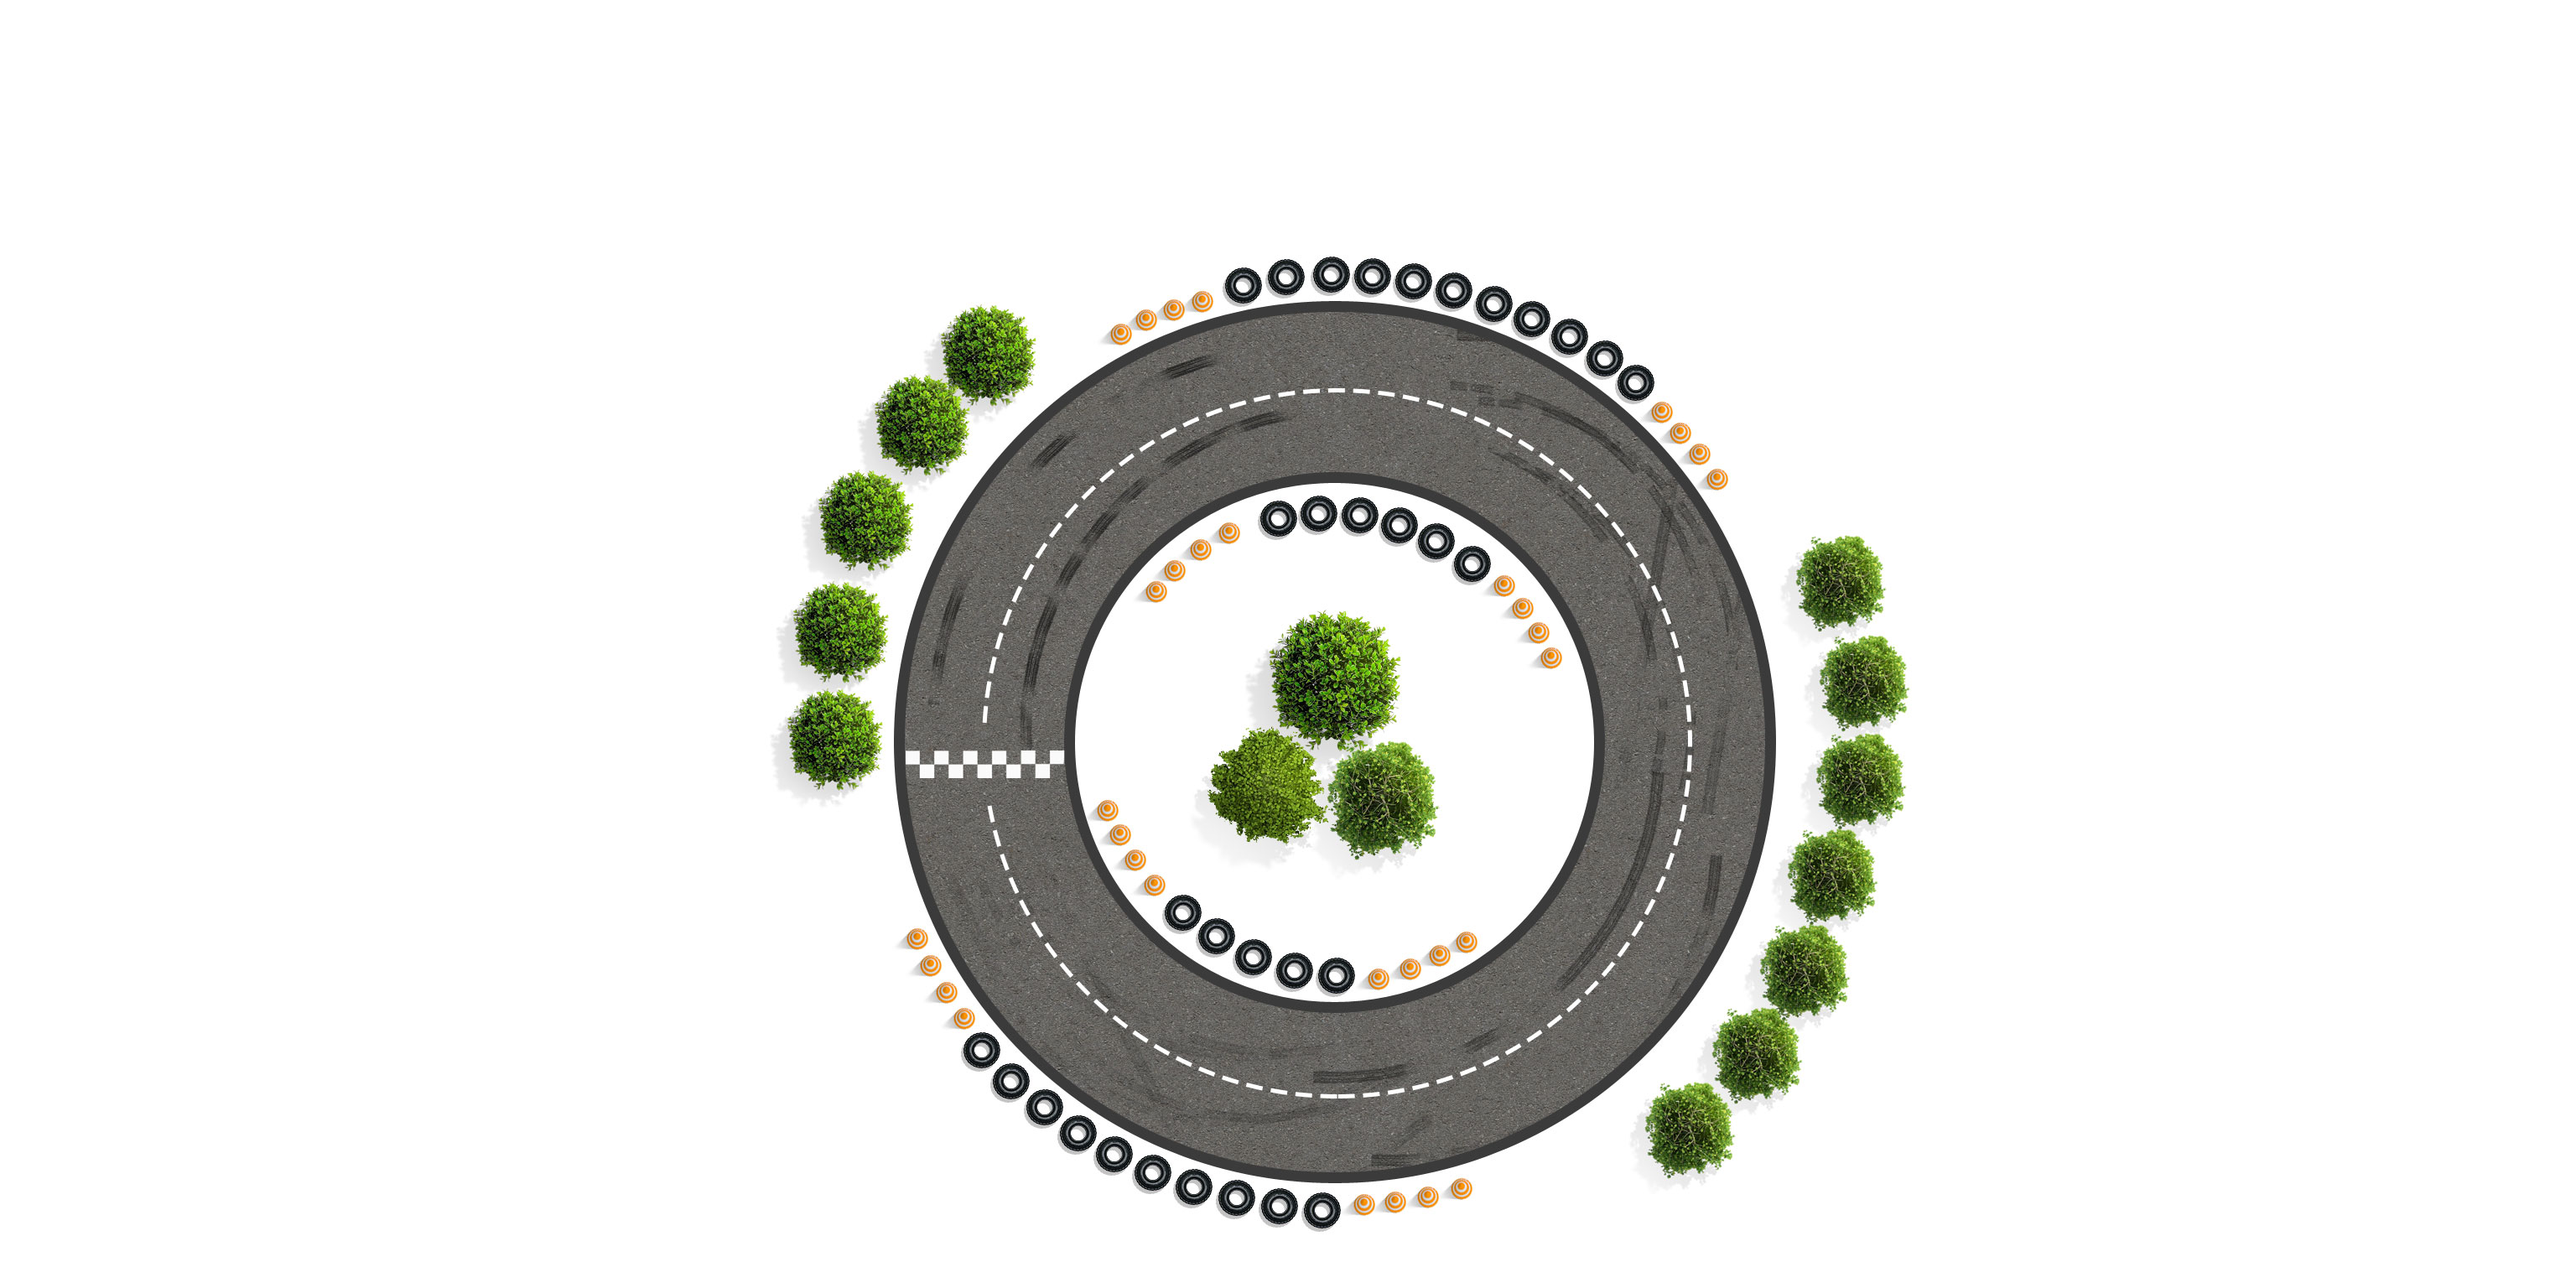
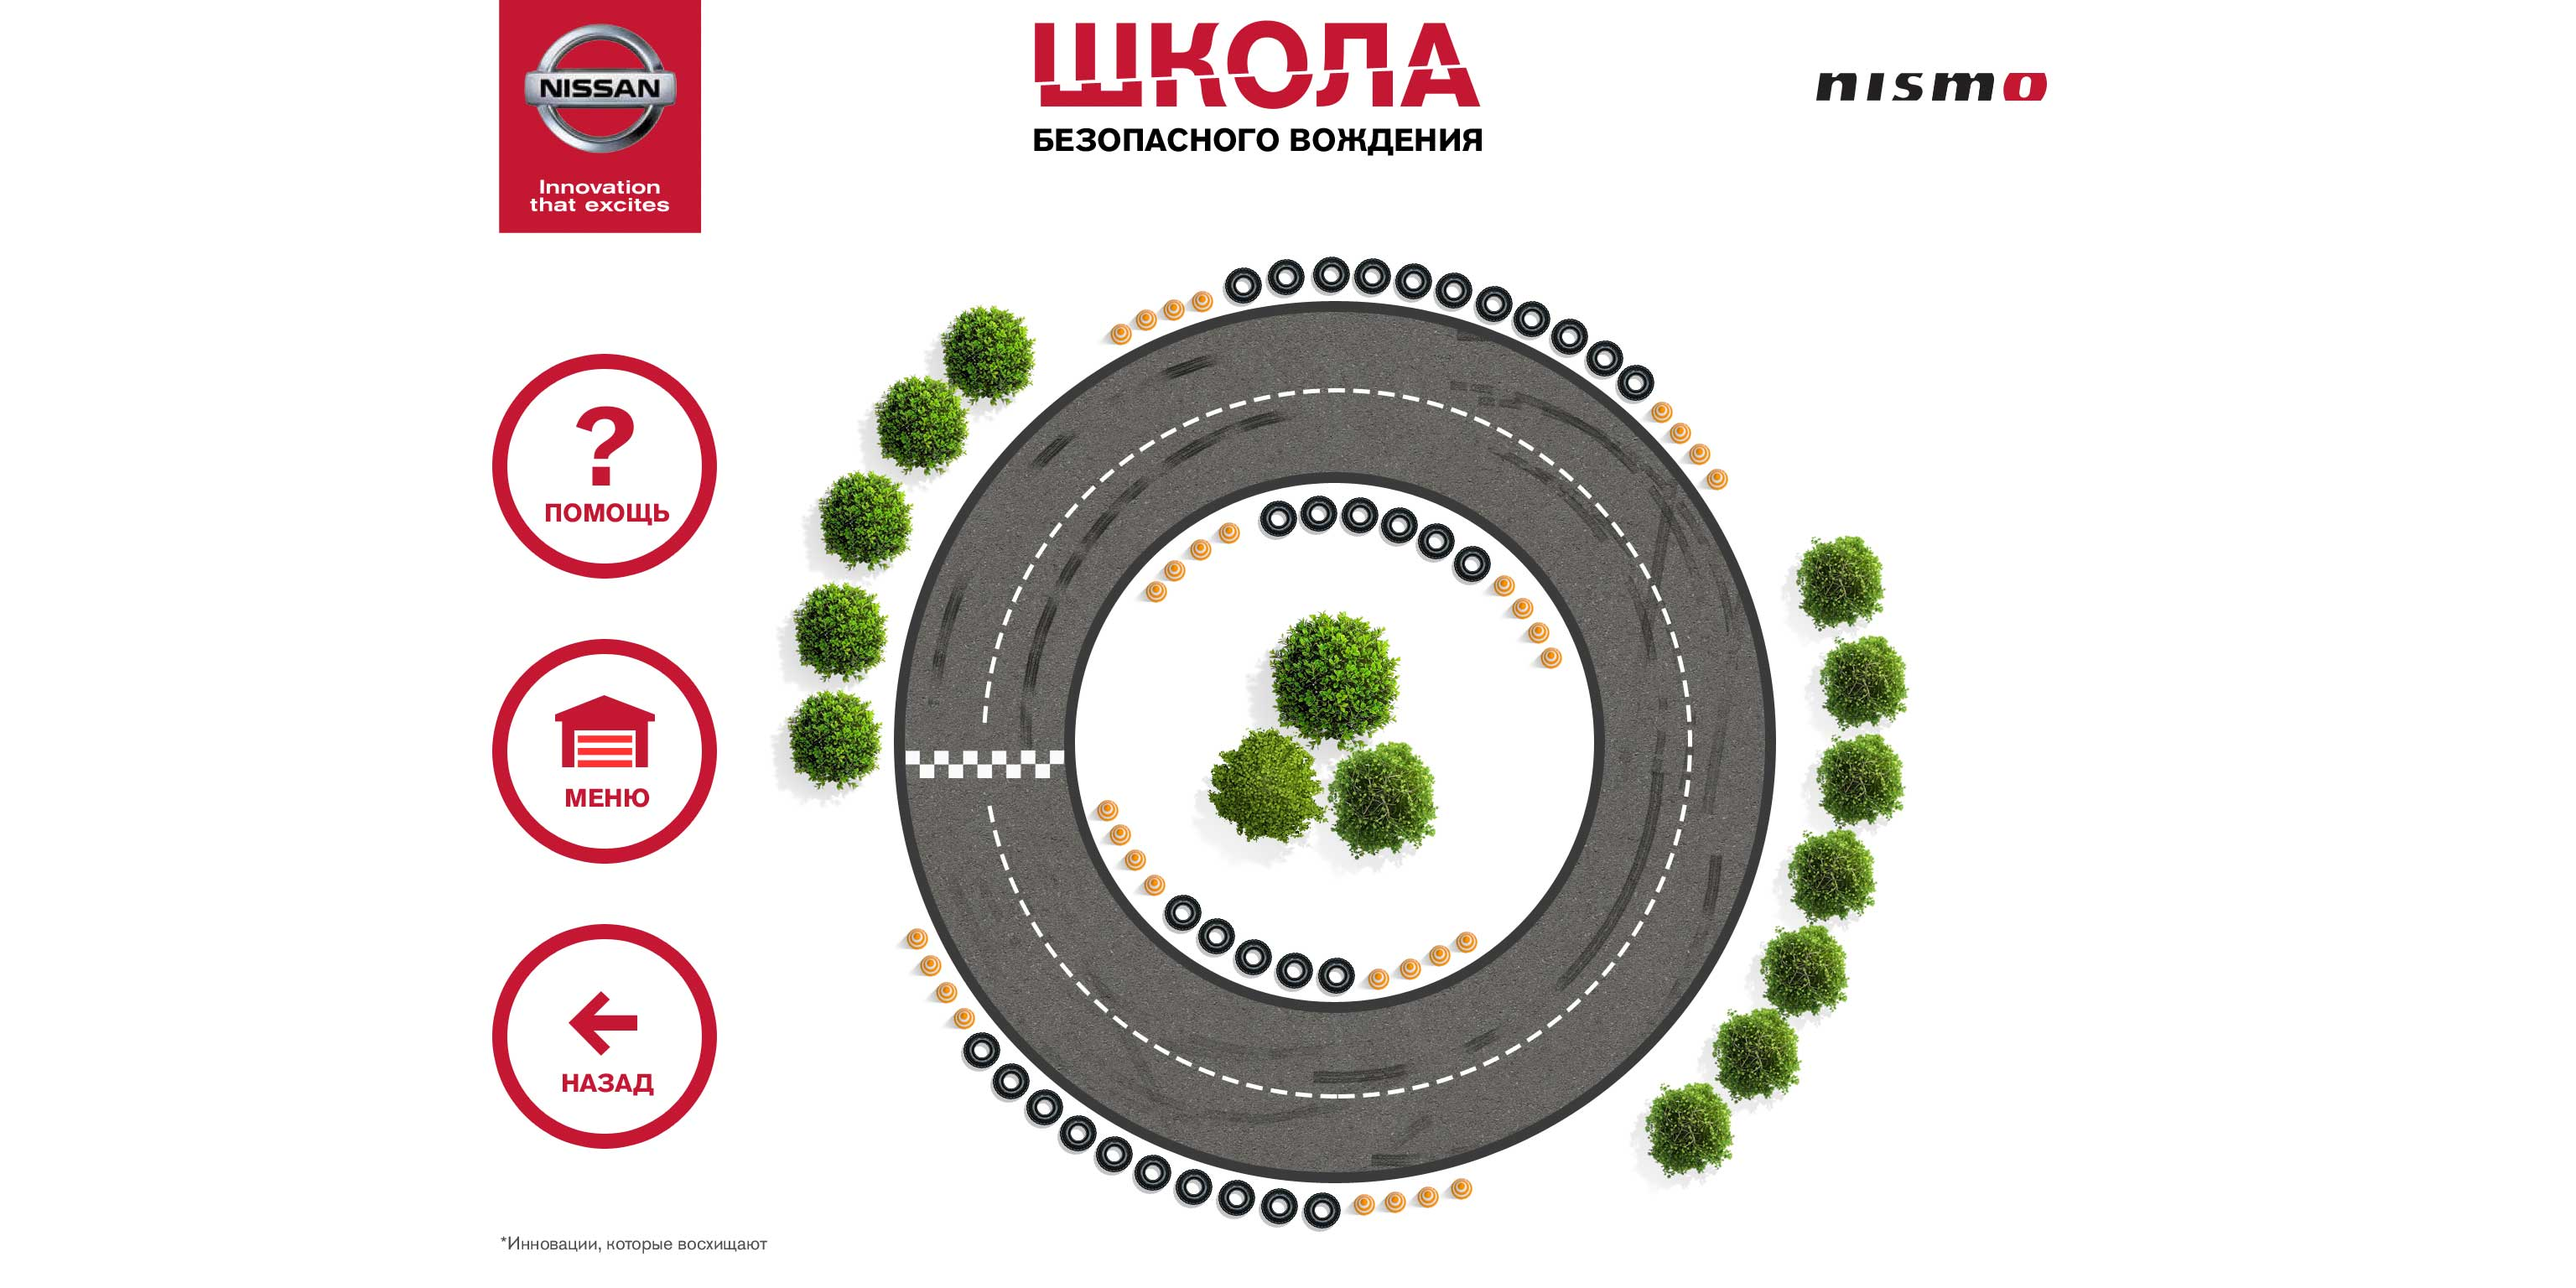
lesson4

diff --git a/src/circle.js b/src/circle.js
@@ -1,0 +1,247 @@
+var Circle = cc.Layer.extend({
+	ctor: function () {
+		this._super();
+	},
+	menuIntro: {
+		back: assets.circleIntroBack,
+	  areas : [
+	           {
+	        	   x: 3072/2 -366,
+	        	   y: 1536 - 1174 - 306,
+	        	   w: 306,
+	        	   h: 306,
+	        	   click: function () {
+	        		   cc.loader.loadJson("res/data/circle.json", function(error, data) {
+	        			   app.circle.game(data[0]);  
+	        		   });	
+	        	   }	
+	           },
+	           {
+	        	   x: 3072/2 + 0,
+	        	   y: 1536 - 1174 - 306,
+	        	   w: 306,
+	        	   h: 306,
+	        	   click: function () {
+	        		   app.menu = new Menu();	
+	        		   app.runStage(app.menu, 2);
+	        	   }	
+	           }
+	    ]
+	},
+	menuGame: {
+		back: assets.circleGameBack,
+		areas: [
+		        {
+		        	x     : 1536 - 955,
+		        	y     : 1536 - 420 - 268,
+		        	w     : 268,
+		        	h     : 268,
+		        	click : function () {
+		        		app.circle.help();	
+		        	}
+		        },
+		        {
+		        	x     : 1536 - 955,
+		        	y     : 1536 - 760 - 268,
+		        	w     : 268,
+		        	h     : 268,
+		        	click : function () {
+		        		app.runStage(new Menu(), 2);
+		        	}
+		        },
+		        {
+		        	x     : 1536 - 955,
+		        	y     : 1536 - 1102 - 268,
+		        	w     : 268,
+		        	h     : 268,
+		        	click : function () {
+		        		app.runStage(new Circle());
+		        	}
+		        }
+		        ]
+	},
+	menuHelp: {
+		back: assets.turnHelp,
+		areas: [
+		        {
+		        	x: 1536 - 953,
+		        	y: 1536 - 410 - 270,
+		        	w: 270,
+		        	h: 270,
+		        	click: function () {
+		        		app.runStage(new Menu(), 2);
+		        	}
+		        },
+		        {
+		        	x: 1536 - 953,
+		        	y: 1536 - 750 - 270,
+		        	w: 270,
+		        	h: 270,
+		        	click: function () {
+		        		cc.loader.loadJson("res/data/circle.json", function(error, data) {
+		        			app.circle.game(data[0]);  
+		        		});	 
+		        	}
+		        }
+		        ]
+	},
+	menuResult: {
+		back: assets.turnResult,
+		areas: [
+		        {
+		        	x: 1536 - 953,
+		        	y: 1536 - 410 - 270,
+		        	w: 270,
+		        	h: 270,
+		        	click: function () {
+			  	
+			  app.runStage(new Menu(), 2);
+		    }
+	      },
+	     {
+		   x: 1536 - 953,
+		   y: 1536 - 750 - 270,
+		   w: 270,
+		   h: 270,
+		   click: function () {
+			   cc.loader.loadJson("res/data/circle.json", function(error, data) {
+				   app.circle.game(data[0]);  
+    		   });	
+		   }
+	     },{
+	    	 x: 1536 - 260,
+	    	 y: 1536 - 1165 - 99,
+	    	 w: 99,
+	    	 h: 99,
+	    	 click: function () {
+	    		 app.share('fb', 'Я прошел урок "Прохождение круга" в Школе вождения Nissan!');
+	    	 }
+	     },
+	     {
+	    	 x: 1536 - 133,
+	    	 y: 1536 - 1165 - 99,
+	    	 w: 99,
+	    	 h: 99,
+	    	 click: function () {
+	    		 app.share('vk', 'Я прошел урок "Прохождение круга" в Школе вождения Nissan!');
+	    	 }
+	     },
+	     {
+	    	 x: 1536 - 6,
+	    	 y: 1536 - 1165 - 99,
+	    	 w: 99,
+	    	 h: 99,
+	    	 click: function () {
+	    		 app.share('tw', 'Я прошел урок "Прохождение круга" в Школе вождения Nissan!');
+	    	 }
+	     },
+	     {
+	    	 x: 1536 + 121,
+	    	 y: 1536 - 1165 - 99,
+	    	 w: 99,
+	    	 h: 99,
+	    	 click: function () {
+	    		 app.share('od', 'Я прошел урок "Прохождение круга" в Школе вождения Nissan!');
+	    	 }
+	     }
+
+	     ]
+	},
+	init: function () {
+		app.circle = this;	
+		app.renderMenu(this, this.menuIntro, true);	
+	},
+	help: function () {
+		app.renderMenu(this, this.menuHelp, true);
+	},
+	game: function (track) {
+		app.renderMenu(this, this.menuGame, true);
+		
+
+		var car = new cc.Sprite(assets.car);
+		car.attr({
+			x: app.localX(1536 + track.x),
+			y: app.localY(1536 - track.y),
+			rotation : track.rotation
+		});
+		this.menu.addChild(car);
+		
+		/*app.drawPath(this.menu, app.preparePathPoints(track.path));
+		app.moveByPath(app.preparePathPoints(track.path), car, 5, function () {
+			cc.log('Final !!!');  
+        }, true);*/
+
+		var path = [];
+		var oldX = car.x;
+		var oldY = car.y;
+		var mDelta = 10;
+
+
+		var pathLine = new cc.DrawNode();
+		this.menu.addChild(pathLine);
+
+
+		cc.eventManager.addListener({
+			event: cc.EventListener.TOUCH_ONE_BY_ONE,
+			// When "swallow touches" is true, then returning 'true' from the onTouchBegan method will "swallow" the touch event, preventing other listeners from using it.
+			swallowTouches: true,
+			//onTouchBegan event callback function                      
+			onTouchBegan: function (touch, event) { 
+				path = [];
+				path.push(cc.p(car.x, car.y));
+				//path.push(cc.p(car.x + 5*Math.cos((Math.PI/180)*car.rotation), car.y + 5*Math.sin((Math.PI/180)*car.rotation)));
+				var location = touch.getLocation(); 
+				  oldX = location.x;
+				  oldY = location.y;
+				  return true;
+			  },
+			  onTouchMoved: function (touch, event) {
+				  var location = touch.getLocation(); 
+				  // Рисуем линию
+				  pathLine.drawDot(location, 25, cc.color(255, 131, 22, 20));
+				  if (Math.abs(location.x - oldX) > mDelta && Math.abs(location.y - oldY) > mDelta) {
+				    path.push(location);
+				    oldX = location.x;
+				    oldY = location.y;  
+				  }
+			  },
+			  onTouchEnded: function (touch, event) {
+				var location = touch.getLocation();
+				path.push(location);
+				cc.log('onTouchEnded'); 
+				cc.log(path.length);
+			    app.moveByPath(path, car, 7, function () {
+					cc.log('Final !!!');  
+					var origDistancePath = getPathDistance(track.path);
+					var userDistancePath = getPathPointsDistance(path);
+					
+					cc.log('origDistancePath = ' + origDistancePath);
+					cc.log('userDistancePath = ' + userDistancePath);
+					if (userDistancePath > origDistancePath) {
+						var tmp = userDistancePath;
+						userDistancePath = origDistancePath;
+						origDistancePath = tmp;
+					}
+
+					var percent = Math.round((userDistancePath / origDistancePath)*100);
+
+					cc.log('Percent = ' + percent + '%');
+					this.result(percent);
+				}.bind(this), true);
+			  }.bind(this)	  
+	  }, this.menu);
+	  
+	},
+	result: function (percent) {
+		  app.renderMenu(this, this.menuResult, true);	
+		  var line = new cc.LabelTTF(
+				  percent + '%',
+				  'res/fonts/nissanagmed.ttf',
+				  190
+		  );
+		  line.setPosition(app.localX(1350), app.localY(918 - 150));
+		  line.setAnchorPoint(0, 1);
+		  line.setColor(cc.color(197, 23, 50, 255));
+		  this.menu.addChild(line);
+	}
+});

diff --git a/src/menu.js b/src/menu.js
@@ -89,8 +89,8 @@ var Menu = cc.Layer.extend({
     menuLessons: {
 	  back  : assets.menuLessonsBack,
 	  areas : [
-	         {
-	        	 x: 740,
+	           {
+	        	   x: 740,
 	        	 y: 146,
 	        	 h: 388,
 	        	 w: 278,
@@ -98,7 +98,7 @@ var Menu = cc.Layer.extend({
 	        	   cc.log('Go to lesson #1');	
 	        	   app.runStage(new Accelerator());
 	        	 }
-	         },
+	           },
 	         {
 	        	 x: 1060,
 	        	 y: 146,
@@ -125,7 +125,8 @@ var Menu = cc.Layer.extend({
       	 h: 388,
       	 w: 278,
       	 click: function () {
-      	   cc.log('Go to lesson #4');	 
+      		cc.log('Go to lesson #4');
+      		app.runStage(new Circle());	 
       	 }
        },
        {
@@ -134,7 +135,8 @@ var Menu = cc.Layer.extend({
          h: 388,
          w: 278,
          click: function () {
-           cc.log('Go to lesson #5');	 
+           cc.log('Go to lesson #5');
+           app.runStage(new Slalom());	
          }
        }
 	 ]          

diff --git a/src/app.js b/src/app.js
@@ -201,10 +201,14 @@ var app = {
 		}
   },
   
-  moveByPath: function (path, sprite, time, onSuccess) {
+  moveByPath: function (path, sprite, time, onSuccess, forCircle) {
 		var action = cc.cardinalSplineTo(time, path, 0);
 		//action.easing(cc.easeIn(time));
 		action.easing(cc.easeInOut(time));
+		
+		//action.speed = -10;
+		
+		
 		  
 		var prevCarPosition = cc.p(sprite.x, sprite.y);
 		var prevAngle = sprite.rotation;
@@ -215,6 +219,11 @@ var app = {
 				var d = getDistance(p.x, p.y, prevCarPosition.x, prevCarPosition.y);
 				if (d > 20) {
 					var alpha = 180 - (180/Math.PI)*Math.acos((prevCarPosition.y - p.y)/d);
+					if (forCircle == true && (alpha - prevAngle) < 0 && Math.abs(alpha - prevAngle) > 5 ) {
+					  cc.log('gop');	
+					  alpha = 180 + (180/Math.PI)*Math.acos((prevCarPosition.y - p.y)/d);	
+					}
+					cc.log(alpha);
 					if (Math.abs(alpha - prevAngle) < 40) {
 					  sprite.rotation = alpha;
 					  prevAngle = alpha;	

diff --git a/src/assets.js b/src/assets.js
@@ -34,6 +34,10 @@ var assets = {
   rollIntroBack : 'res/roll/roll-intro.jpg',
   rollGameBack  : 'res/roll/roll-game.jpg',
   
+  //Графические ресурсы к уроку Прохождение круга
+  circleIntroBack : 'res/circle/circle-intro.jpg',
+  circleGameBack  : 'res/circle/circle-game.jpg',
+  
   
   
   //Графические ресурсы к уроку Управляемый занос
